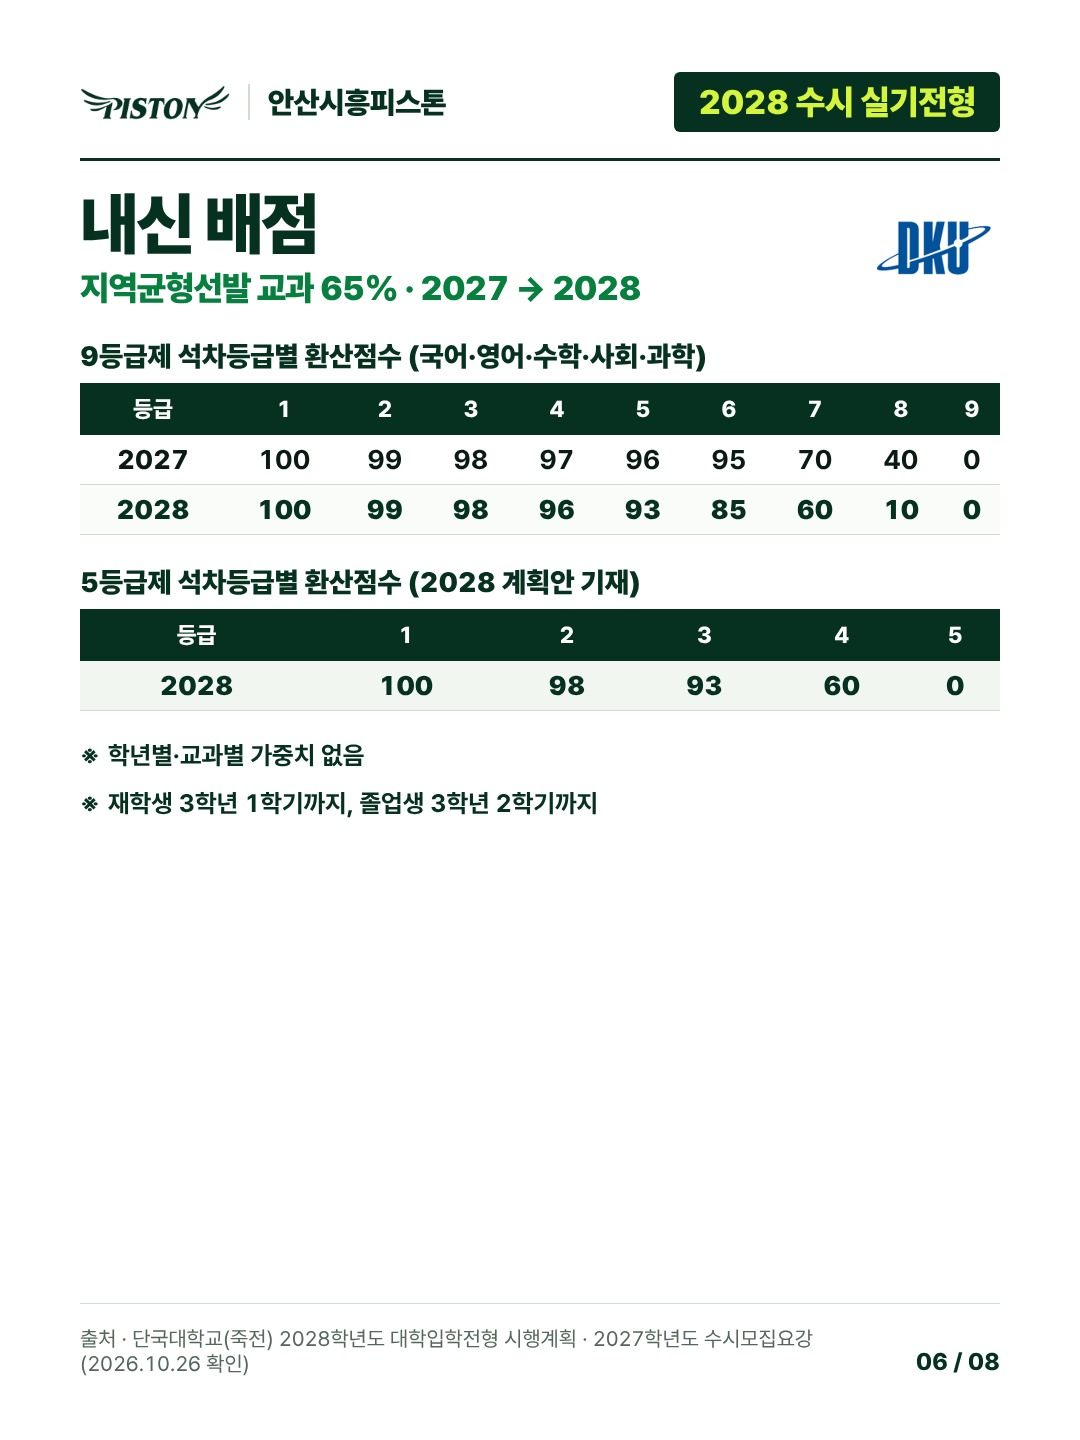
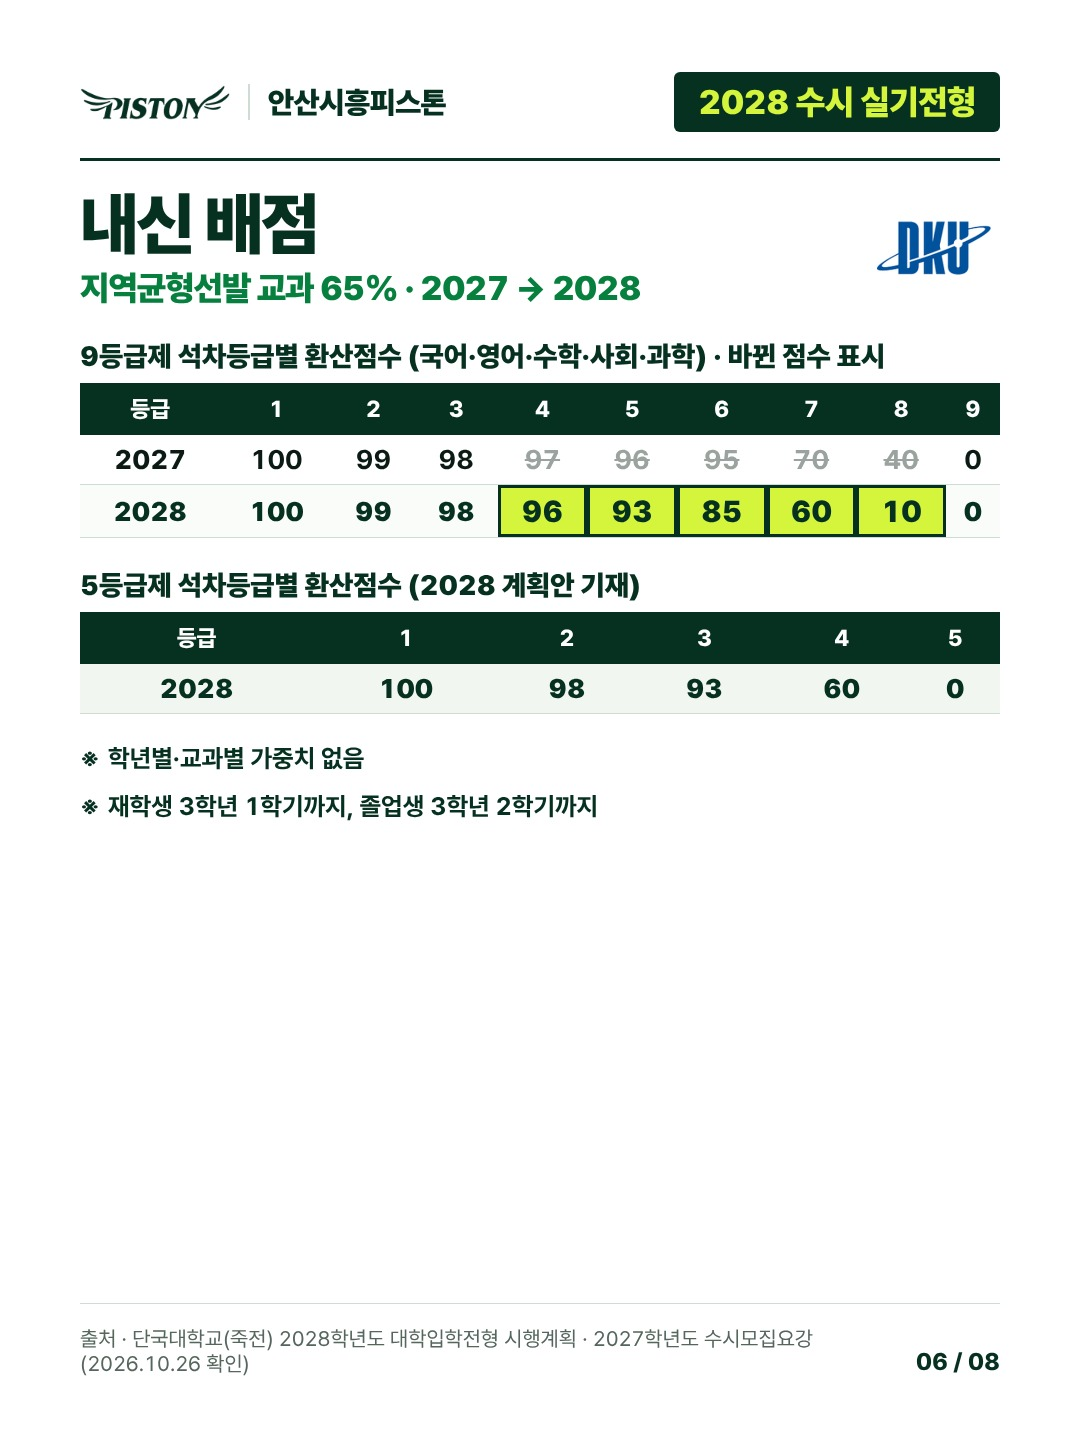
표에서 바뀐 숫자 강조(diff)
Claude-Session: https://claude.ai/code/session_01EGTn7G8nWP1yv5M2jqmoFb

diff --git a/social/out/dankook-jukjeon-susi/blog.md b/social/out/dankook-jukjeon-susi/blog.md
@@ -44,7 +44,7 @@
 [이미지: post-5.jpg]
 
 ## 내신 배점 (지역균형선발 교과 65% · 2027 → 2028)
-**9등급제 석차등급별 환산점수 (국어·영어·수학·사회·과학)**
+**9등급제 석차등급별 환산점수 (국어·영어·수학·사회·과학) · 바뀐 점수 표시**
 
 | 등급 | 1 | 2 | 3 | 4 | 5 | 6 | 7 | 8 | 9 |
 | --- | --- | --- | --- | --- | --- | --- | --- | --- | --- |
